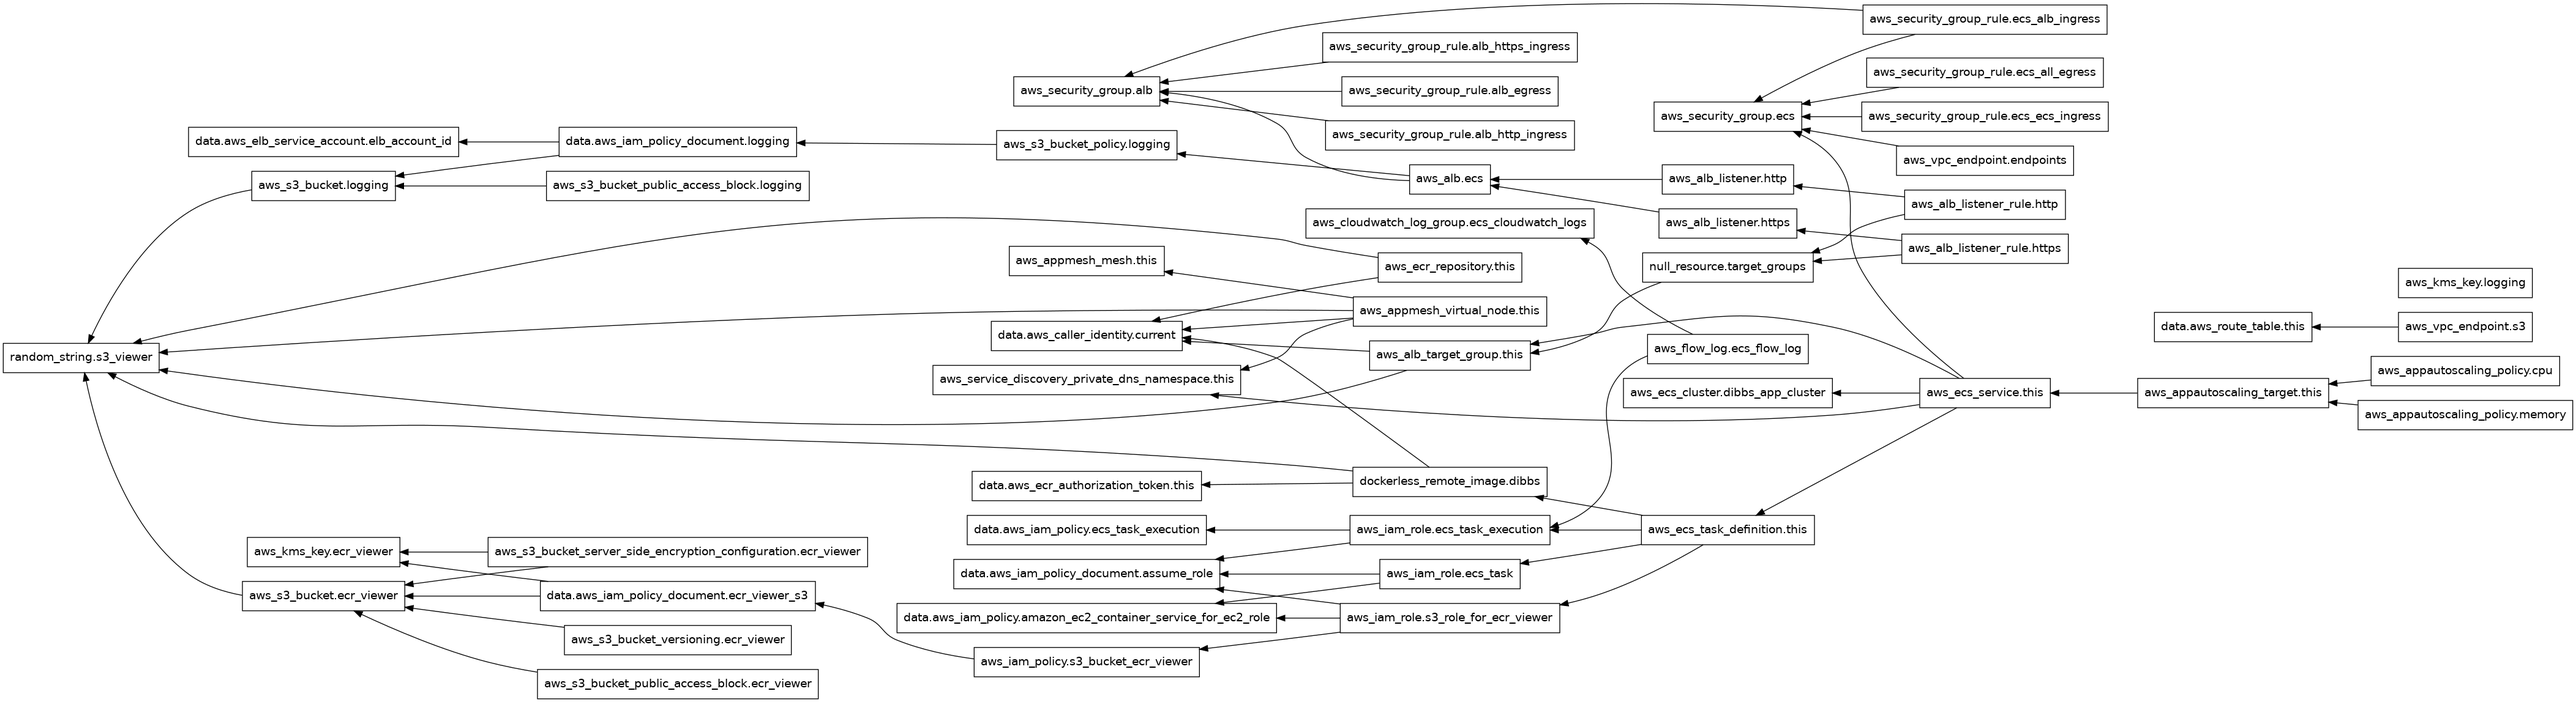
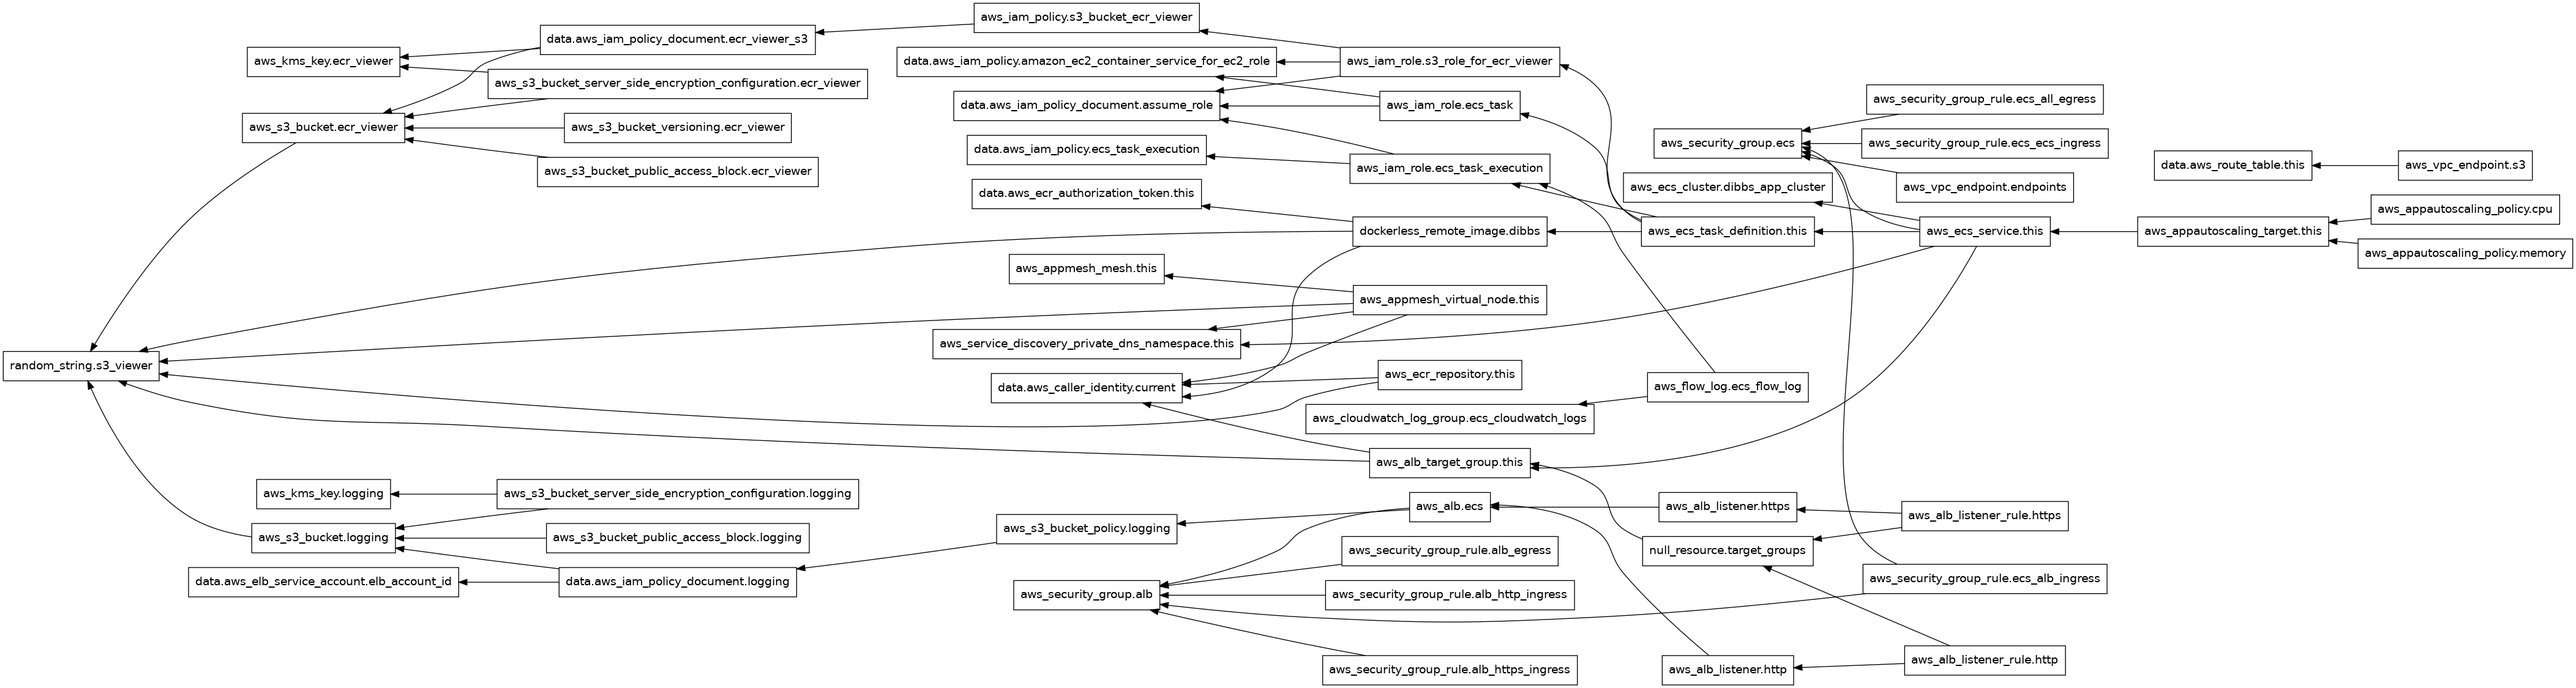
feat(s3): add server side encryption configuration for logging

diff --git a/README.md b/README.md
@@ -153,6 +153,7 @@ No modules.
 | [aws_s3_bucket_public_access_block.ecr_viewer](https://registry.terraform.io/providers/hashicorp/aws/latest/docs/resources/s3_bucket_public_access_block) | resource |
 | [aws_s3_bucket_public_access_block.logging](https://registry.terraform.io/providers/hashicorp/aws/latest/docs/resources/s3_bucket_public_access_block) | resource |
 | [aws_s3_bucket_server_side_encryption_configuration.ecr_viewer](https://registry.terraform.io/providers/hashicorp/aws/latest/docs/resources/s3_bucket_server_side_encryption_configuration) | resource |
+| [aws_s3_bucket_server_side_encryption_configuration.logging](https://registry.terraform.io/providers/hashicorp/aws/latest/docs/resources/s3_bucket_server_side_encryption_configuration) | resource |
 | [aws_s3_bucket_versioning.ecr_viewer](https://registry.terraform.io/providers/hashicorp/aws/latest/docs/resources/s3_bucket_versioning) | resource |
 | [aws_security_group.alb](https://registry.terraform.io/providers/hashicorp/aws/latest/docs/resources/security_group) | resource |
 | [aws_security_group.ecs](https://registry.terraform.io/providers/hashicorp/aws/latest/docs/resources/security_group) | resource |
